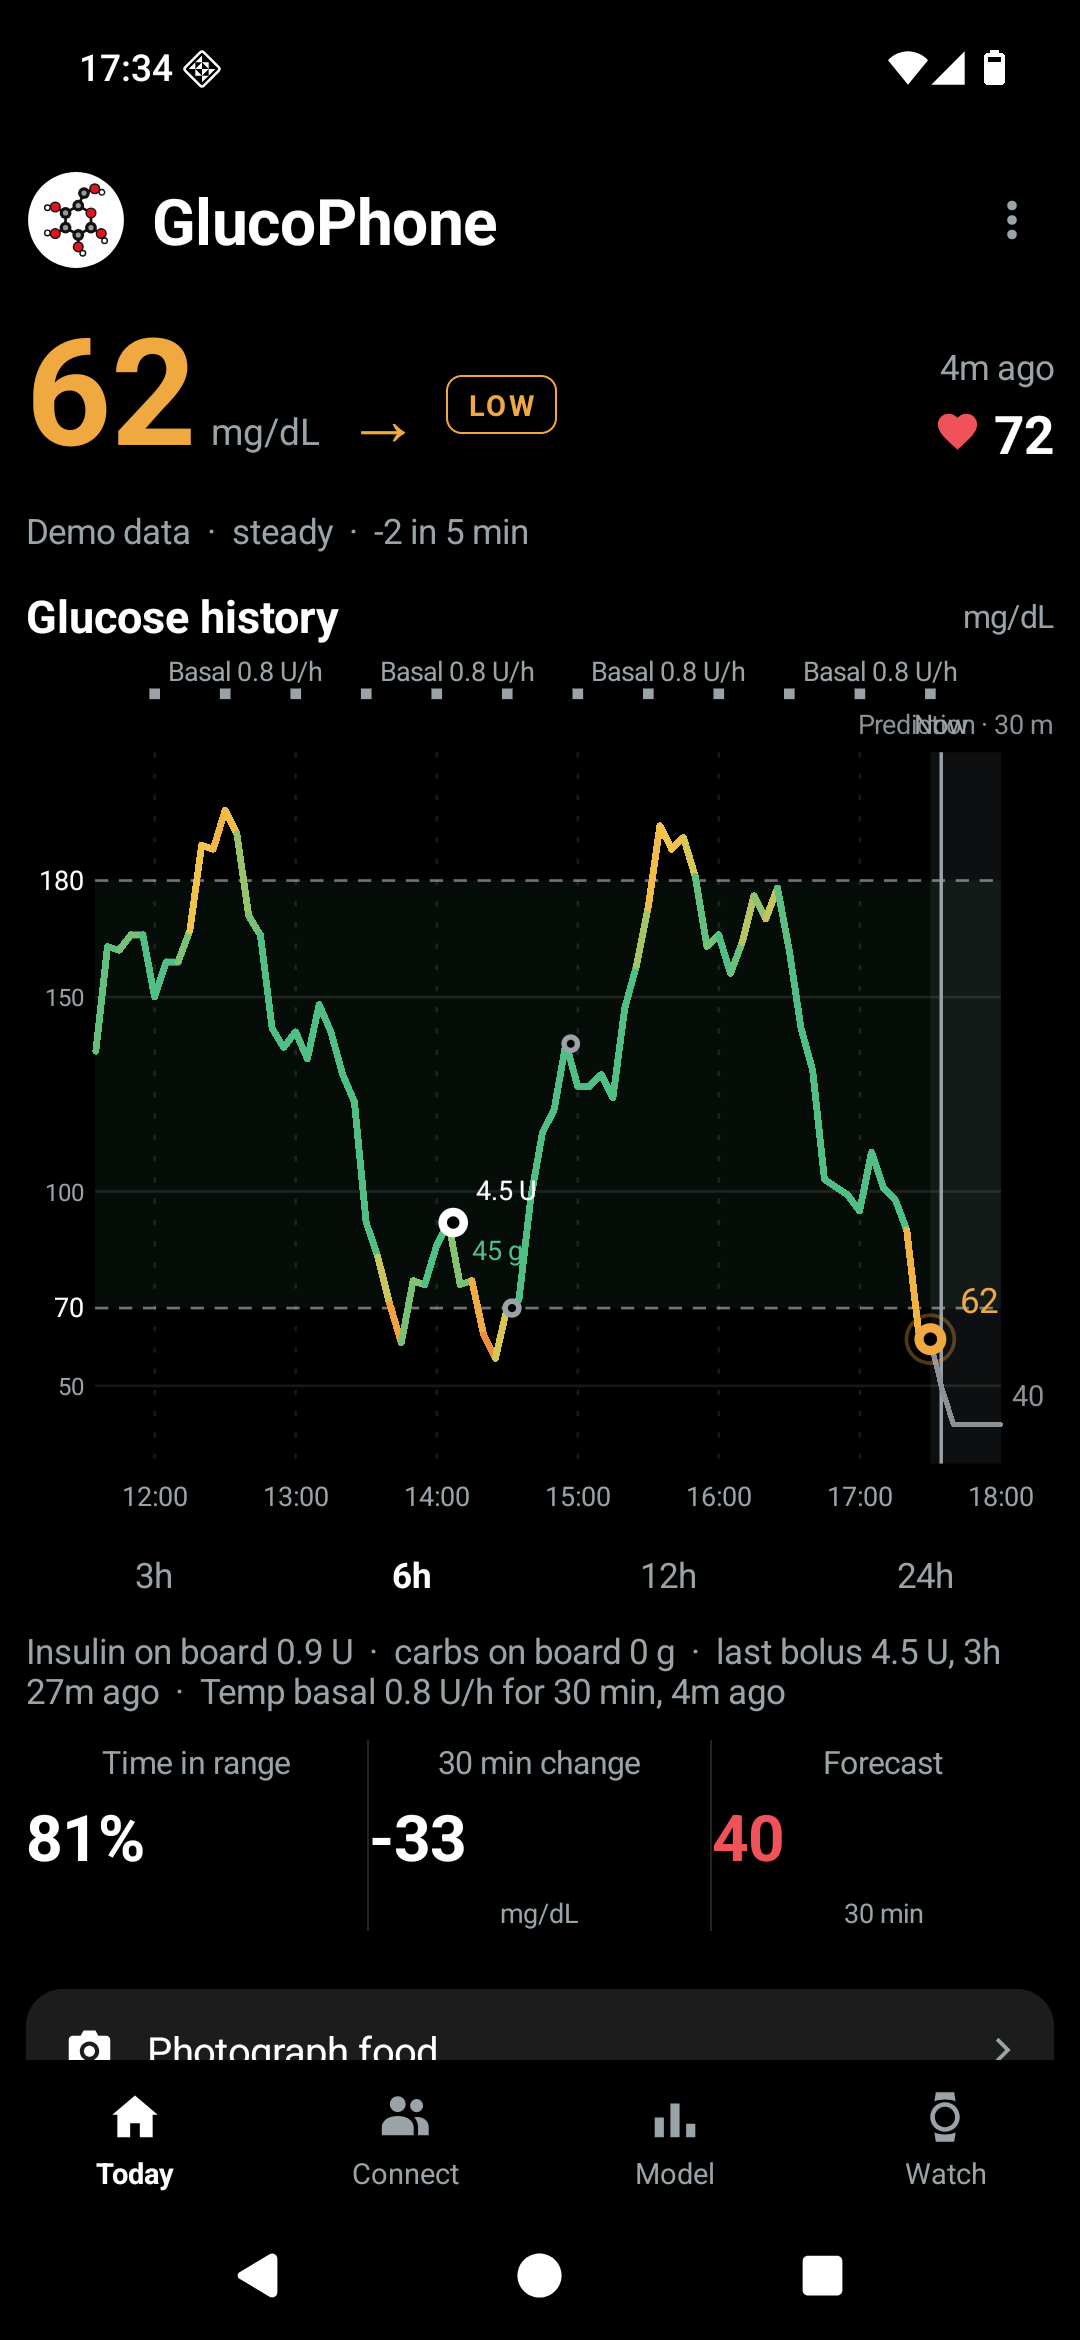
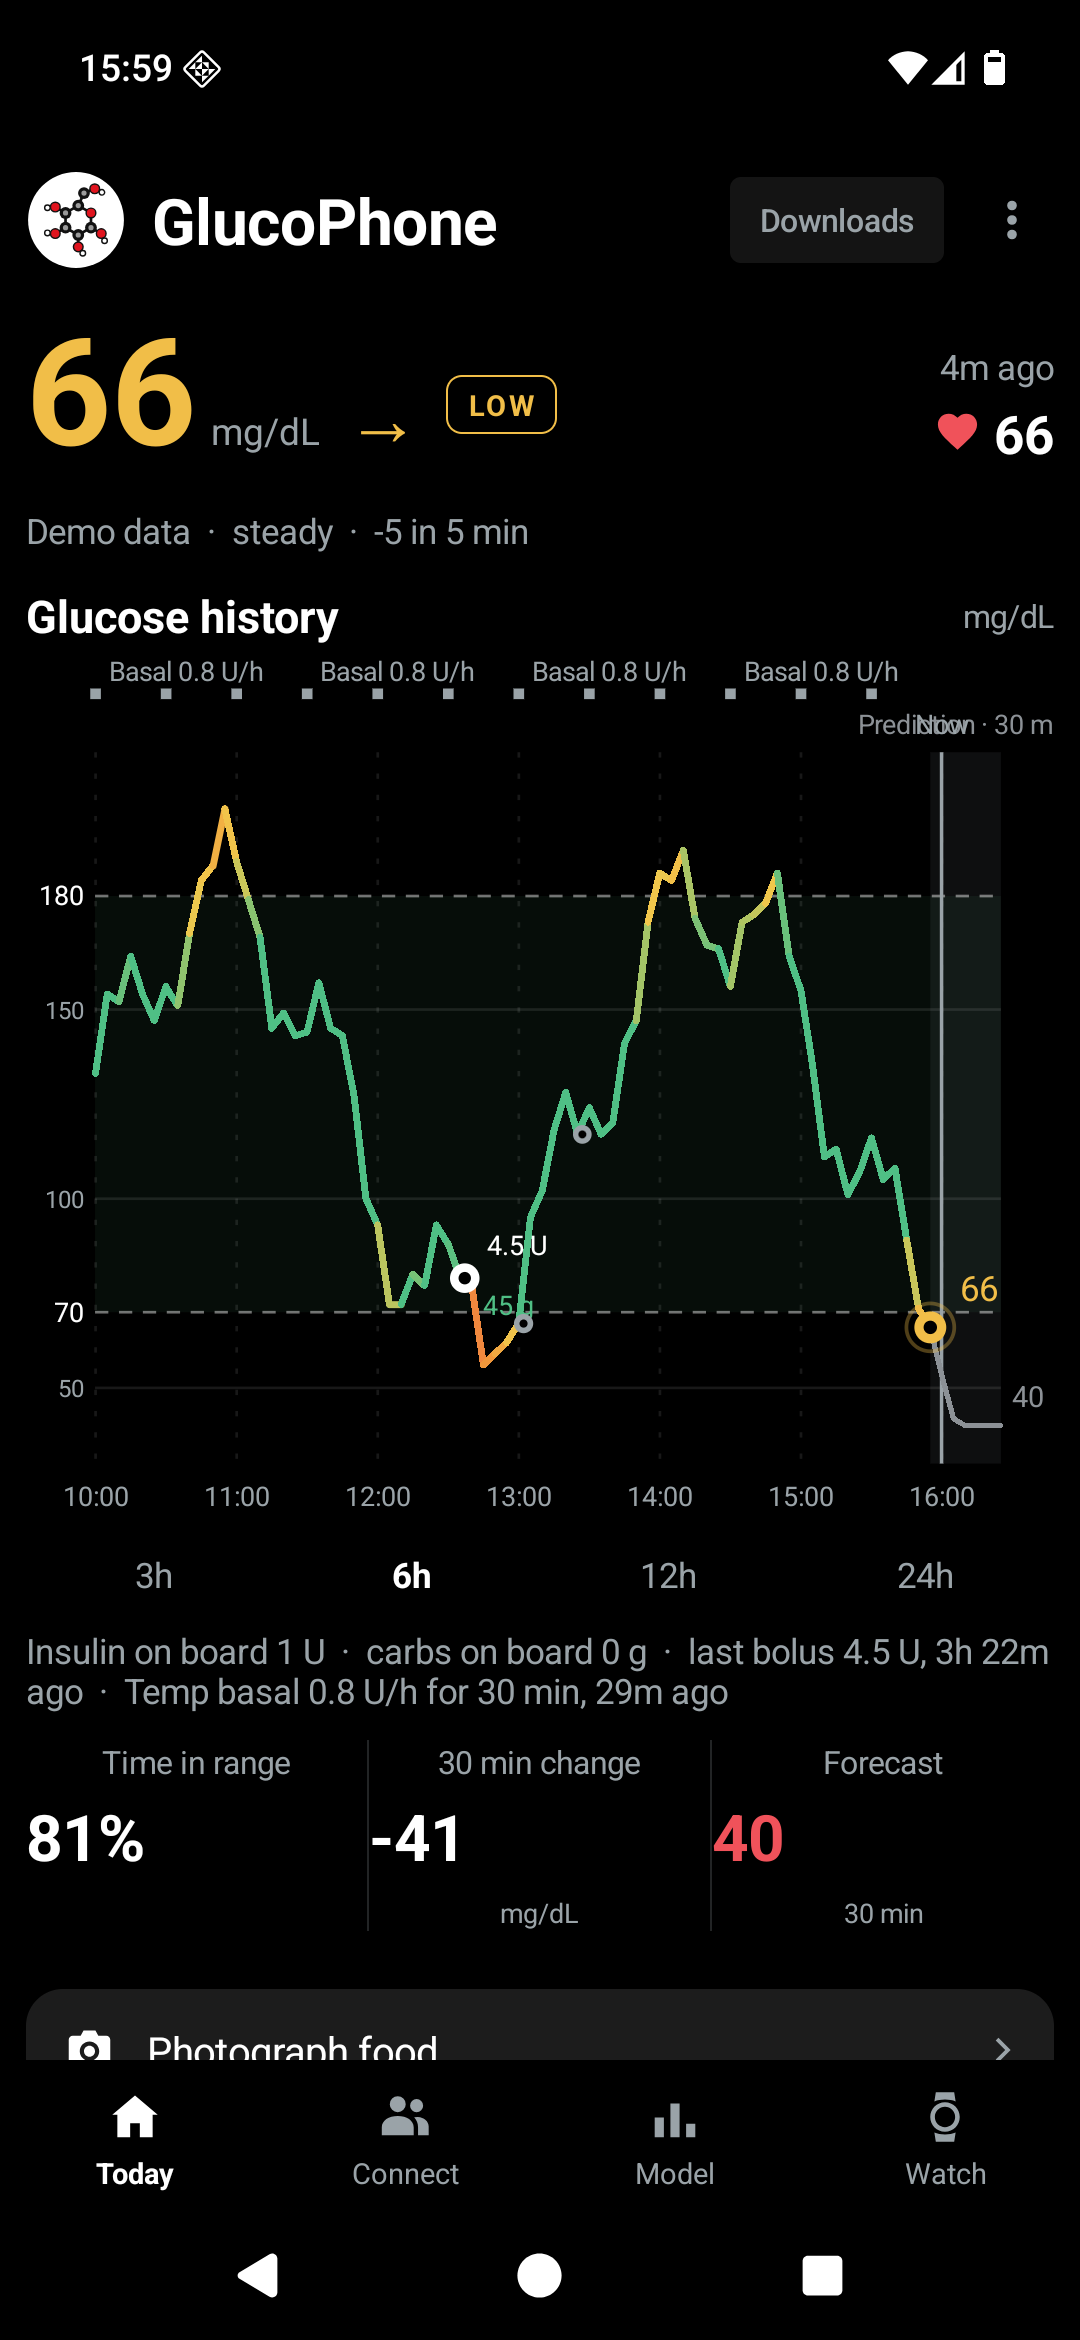
Show the PDF report in the README and refresh the phone screenshots
Two pages of a synthetic 14-day report (overview and one day), rendered by
the debug ReportPreviewActivity with the production ReportPdf. The phone
Today captures are new demo captures that show the Downloads button. The
screenshot guide records where each image comes from and how to render the
report pages again.

diff --git a/docs/screenshots.md b/docs/screenshots.md
@@ -26,6 +26,29 @@ The files are unmodified copies of these generated captures:
 | `watch-app.png` | `watch6-classic-43/demo-app.png` |
 | `phone-today.png` | `phone-galaxy-s22/demo-today.png` |
 | `phone-log.png` | `phone-galaxy-s22/demo-today-bottom.png` |
+| `report-overview.png` | page 1 of `standard-14-sensor_and_pump.pdf` (see below) |
+| `report-daily.png` | page 6 of `standard-14-sensor_and_pump.pdf` (see below) |
+
+The phone images were refreshed on 2026-10-15 from the code after `09fac18`, when the
+Today header gained **Downloads**. The watch images were not recaptured: no watch code
+changed since 0.1.12.
+
+The report pages come from the debug-only `ReportPreviewActivity`, which renders entirely
+synthetic data with the production `ReportPdf` (no account, network or personal data).
+With the phone emulator still running (`phone_screenshots.py demo --keep`):
+
+```bash
+P=io.github.antonkulaga.glucowatch.phone
+adb -s emulator-5554 shell am start -S -W --activity-clear-task -n $P/.ReportPreviewActivity --ez all_cases true
+# wait until the screen says "Synthetic reports ready in private cache."
+adb -s emulator-5554 exec-out run-as $P cat cache/standard-14-sensor_and_pump.pdf > data/output/report.pdf
+pdftoppm -r 150 -png -singlefile -f 1 -l 1 data/output/report.pdf docs/images/screenshots/report-overview
+pdftoppm -r 150 -png -singlefile -f 6 -l 6 data/output/report.pdf docs/images/screenshots/report-daily
+```
+
+`pdftoppm` is from Poppler. The page numbers assume the 14-day fixture in `ReportPreviewData`;
+check the pages after it changes. Page 3 (time of day) is left out on purpose: the synthetic
+days repeat, so its hourly ranges are flat and do not show what the chart does with real data.
 
 To refresh them, run those two commands, inspect the resulting images, and copy only
 the files listed above. Do not copy an overview from a real-data run. Avoid the phone's

diff --git a/README.md b/README.md
@@ -76,9 +76,24 @@ There is no GlucoWatch server and no Google Play Services dependency.
   a file or Hugging Face. Inference runs on the phone. See the [prediction guide](docs/prediction.md).
 - **Easier watch setup:** relay readings and forecasts over Bluetooth, or copy your Dexcom
   or Nightscout login to the watch so you can avoid its keyboard.
+- **Exports and PDF reports:** save 1 to 90 days of sensor and pump history as a CSV or a
+  printable report with an overview, glucose and insulin by time of day, and a page per day.
+  See [export files](docs/export.md).
+
+<table>
+  <tr>
+    <th>Report overview</th>
+    <th>A day in the report</th>
+  </tr>
+  <tr>
+    <td><img src="docs/images/screenshots/report-overview.png" width="300" alt="PDF report overview page with average glucose, time in range, coverage, insulin totals and time-of-day charts"></td>
+    <td><img src="docs/images/screenshots/report-daily.png" width="300" alt="PDF report daily page with the glucose trace, bolus and basal layers, daily totals and the recorded events"></td>
+  </tr>
+</table>
 
 All screenshots above use **synthetic demo data**, captured on Galaxy Watch6 Classic
 43 mm and Galaxy S22-sized emulators. Demo heart rates and forecasts are illustrative.
+The report pages are from a synthetic 14-day report rendered by the phone app's own PDF code.
 
 > GlucoWatch and GlucoPhone are not medical devices. Do not use them for treatment decisions.
 > Keep using your CGM's official app and alarms.
